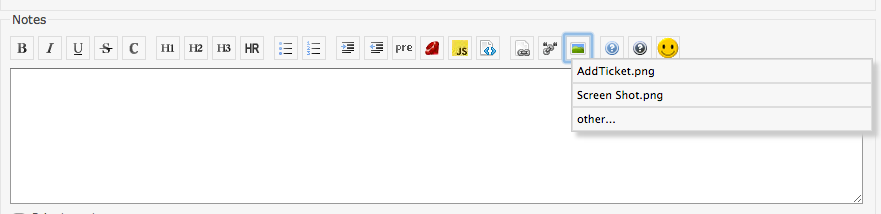
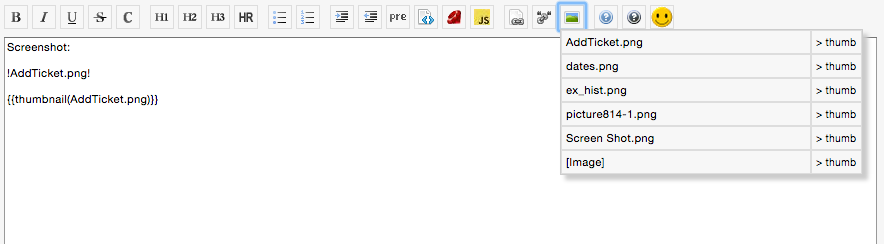
adding support for image thumbnail

diff --git a/README.md b/README.md
@@ -10,12 +10,10 @@ The Redmine jsToolbar Images Extension enhances the images button for the [Redmi
 
 This plugin requires the [Redmine jsToolbar Ext plugin](https://github.com/tleish/redmine_jstoolbar_ext) to also be installed.
 
-### Images with Spaces in File Name
-In Redmine, if you upload an image with spaces in the name then it can be difficult to insert into the wiki text for viewing.
-
-See: http://www.redmine.org/issues/10189
-
-The image menu button detects if there are spaces and inserts a modified path to support spaces file name.
+## Features
+* Easily insert images (or thumbnails) that are uploaded or about to be upload 
+* Supports [Redmine Clipboard Image Paste](https://github.com/peclik/clipboard_image_paste) plugin.
+* Fixes images with Spaces in File Name: In Redmine, if you upload an image with spaces in the name then it can be difficult to insert into the wiki text for viewing. (see: [Redmine Issue #10189](http://www.redmine.org/issues/10189))
 
 ## Installation
 
@@ -30,3 +28,4 @@ restart Redmine
                                  
 * [Redmine jsToolbar Buttons Extension](https://github.com/tleish/redmine_jstoolbar_ext_buttons)
 * [Redmine jsToolbar CodeRay Extension](https://github.com/tleish/redmine_jstoolbar_ext_coderay)
+* [Redmine Clipboard Image Paste](https://github.com/peclik/clipboard_image_paste)
